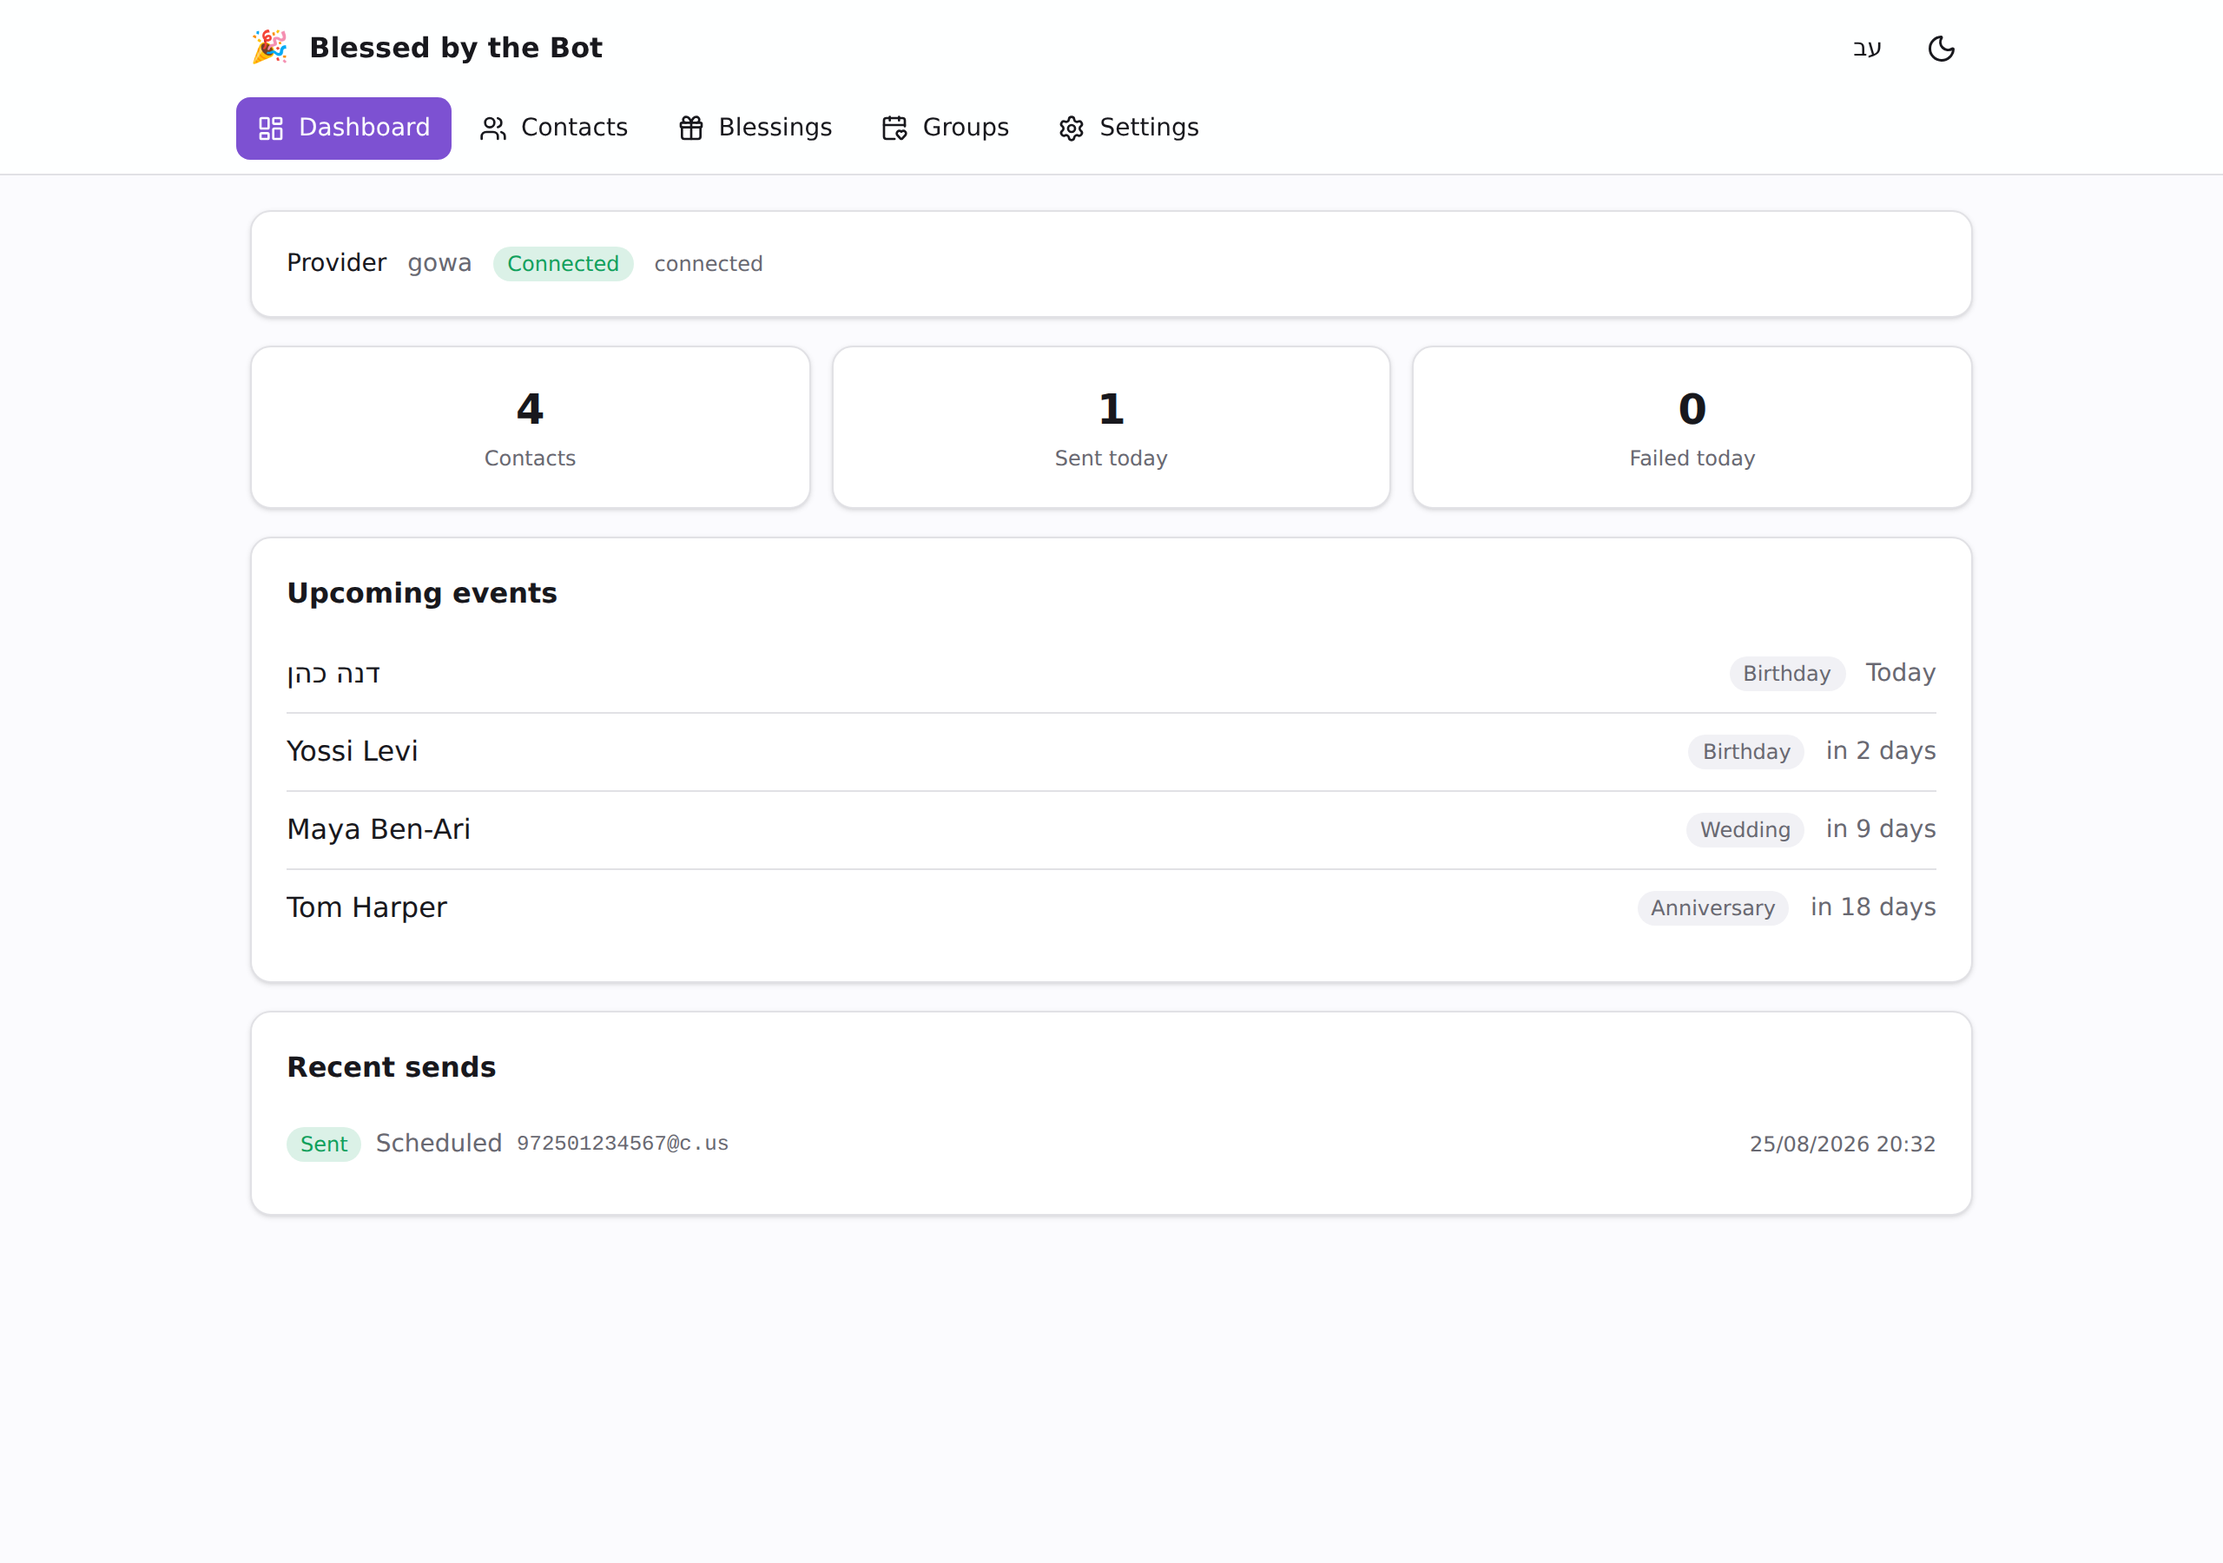
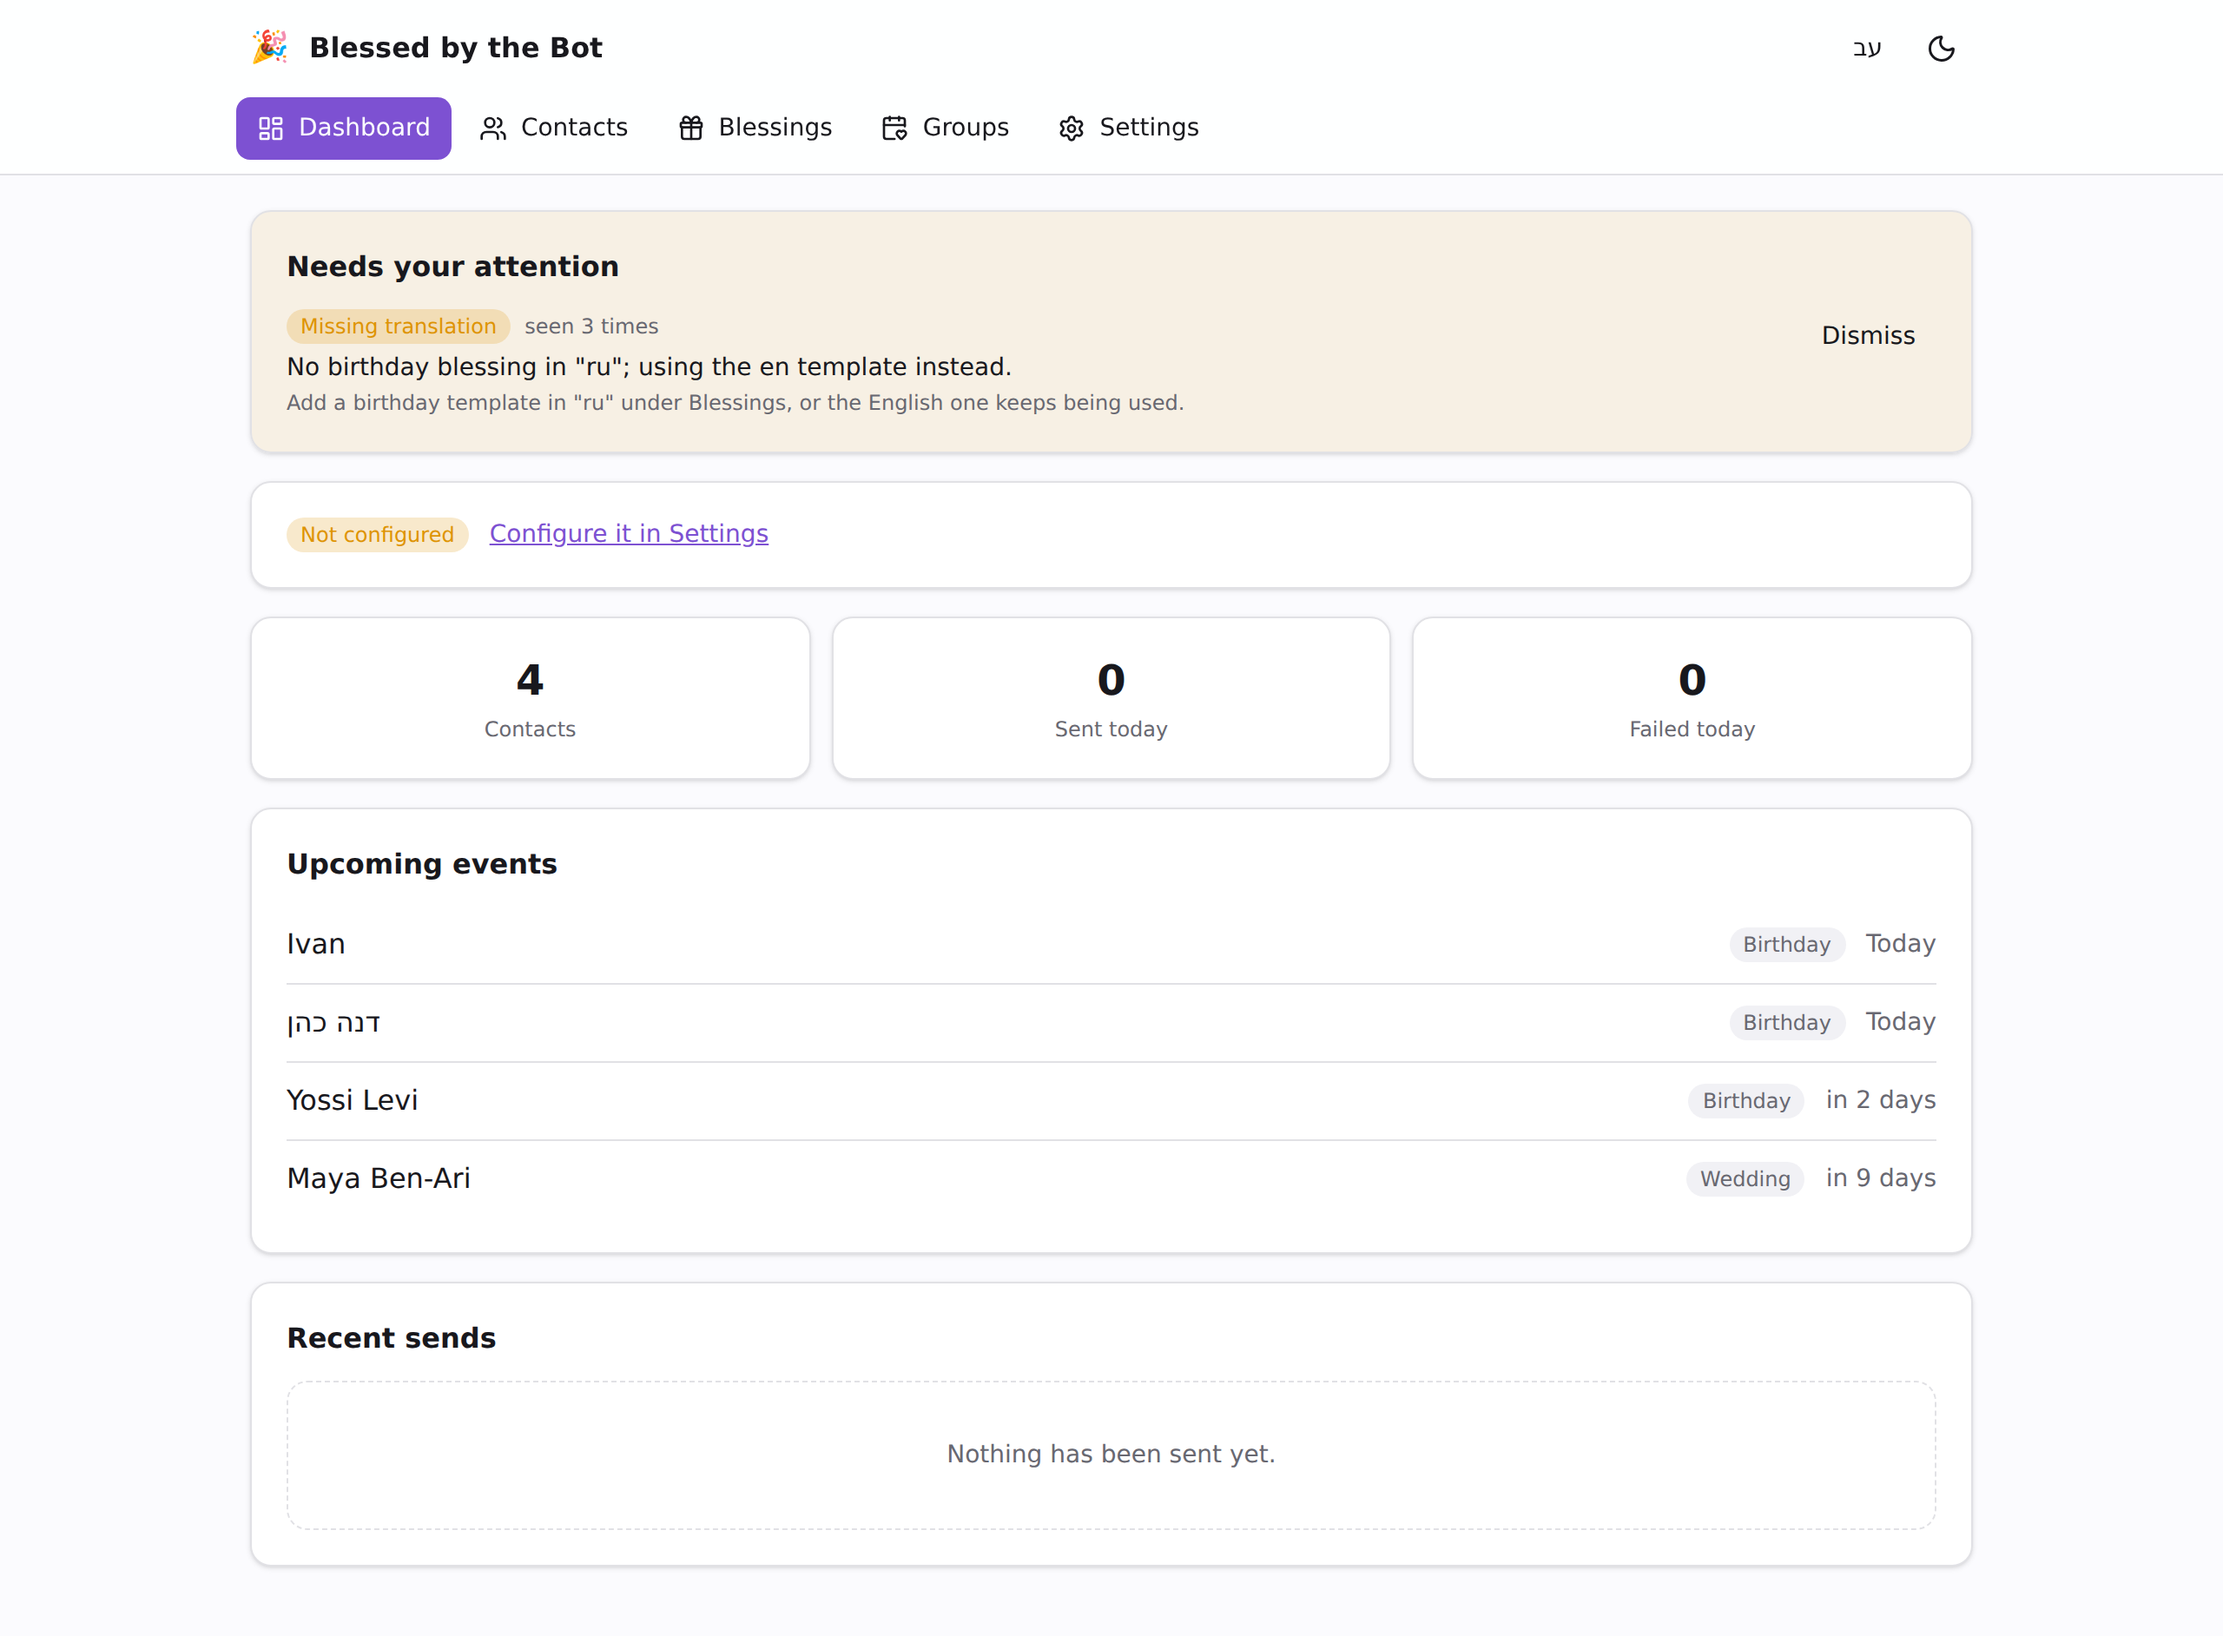
docs: document notices and refresh the dashboard screenshots

diff --git a/docs/api.md b/docs/api.md
@@ -471,6 +471,49 @@ $ curl '.../api/v1/history?kind=telepathy'
 
 ---
 
+## Notices
+
+Conditions the operator should act on, but which are not failures worth
+refusing work over. The dashboard renders active ones as a banner.
+
+| Method | Path | Description |
+|---|---|---|
+| GET | `/api/v1/notices` | Active notices, newest first. `?all=true` includes dismissed ones. |
+| DELETE | `/api/v1/notices/{id}` | Dismiss one. `204` on success. |
+
+| Field | Type | Notes |
+|---|---|---|
+| `id` | integer | |
+| `key` | string | Stable identity. Raising the same key again increments `occurrences` rather than adding a row. |
+| `level` | string | `info`, `warning` or `error`. |
+| `code` | string | Machine-readable kind; the SPA switches on it for wording. |
+| `message` | string | What happened. |
+| `detail` | string \| null | What to do about it. |
+| `occurrences` | integer | How many times the condition has been seen. |
+| `first_seen_at`, `last_seen_at` | string | RFC 3339, UTC. |
+| `dismissed_at` | string \| null | Set once dismissed. |
+
+Dismissing **hides, it does not delete**. The row survives so a recurrence can
+reopen it: the operator acknowledged the last occurrence, not the underlying
+problem.
+
+### Codes
+
+| Code | Raised when |
+|---|---|
+| `language_fallback` | A contact's (or group's) language had no template, so the English one was used. Keyed by event type and language, so a whole address book missing one language produces a single actionable notice. |
+
+```console
+$ curl .../api/v1/notices
+[{"id":1,"key":"language_fallback:birthday:ru","level":"warning","code":"language_fallback",
+  "message":"No birthday blessing in \"ru\"; using the en template instead.",
+  "detail":"Add a birthday template in \"ru\" under Blessings, or the English one keeps being used.",
+  "occurrences":3,"first_seen_at":"2026-08-26T08:06:21.399Z",
+  "last_seen_at":"2026-08-26T08:06:22.206Z","dismissed_at":null}]
+```
+
+---
+
 ## Send now
 
 | Method | Path | Description |

diff --git a/README.md b/README.md
@@ -157,6 +157,11 @@ Precedence: **flag → environment → config file → default**.
 | `/healthz` | Liveness, including a database ping |
 | `/metrics` | Prometheus metrics |
 
+When a contact's language has no template the bot falls back to English and
+raises a **notice**, shown as a banner on the dashboard with what to do about
+it — a log line is invisible to someone using the web UI, and the condition
+recurs every year until a template is added.
+
 ### Metrics
 
 | Metric | Labels |
